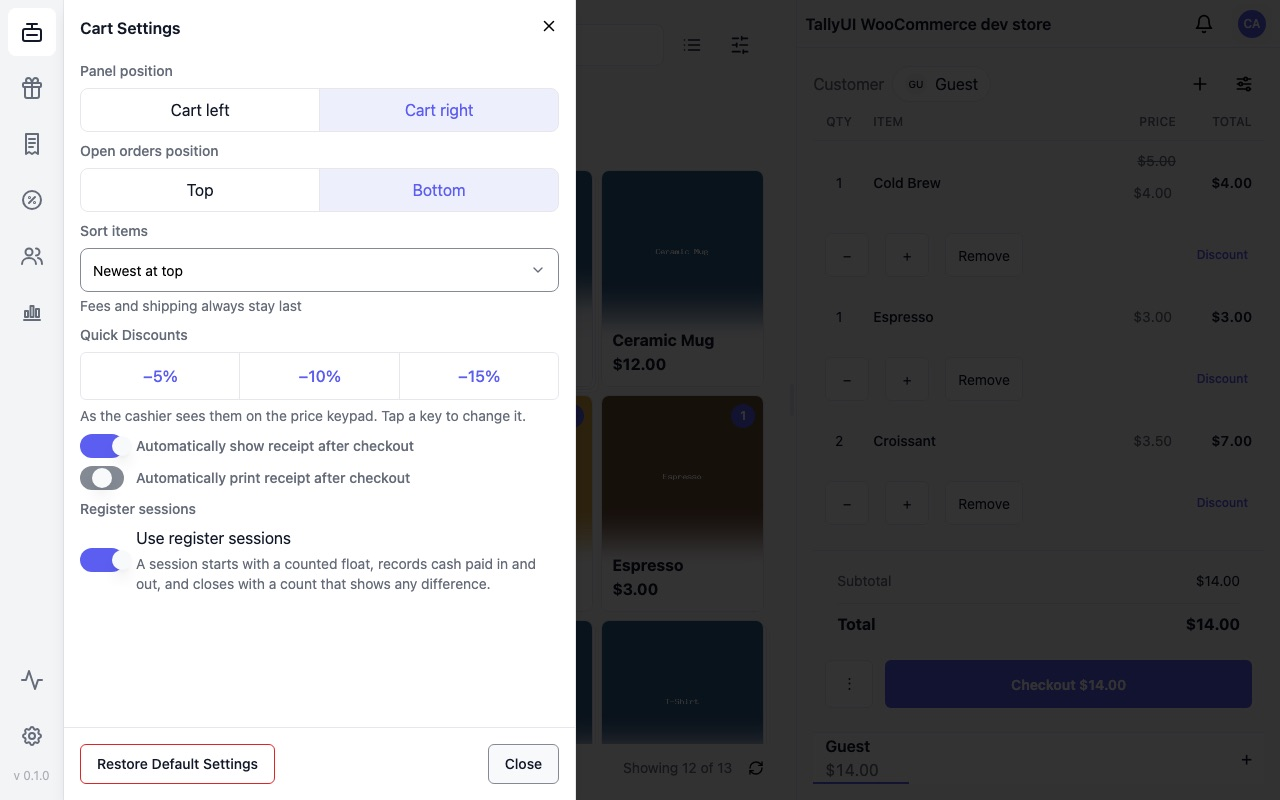
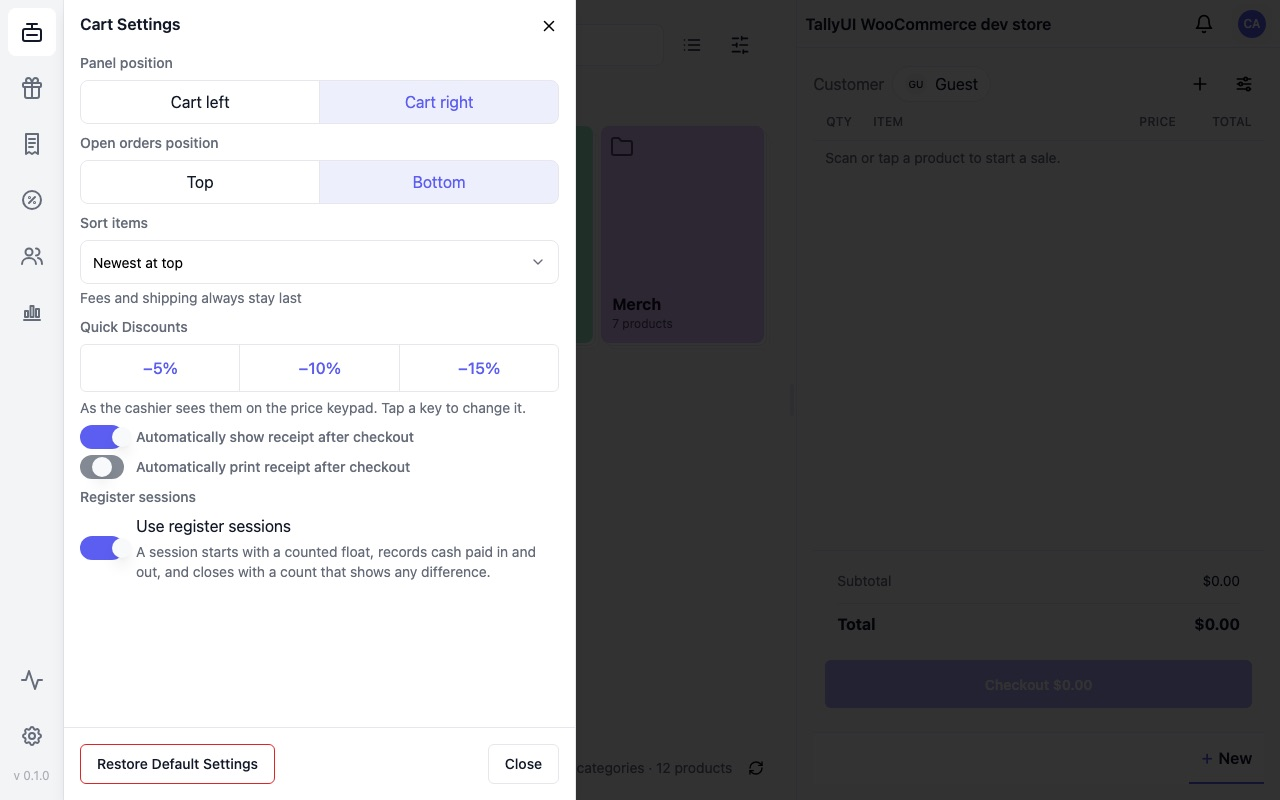
docs(parity): round 9 (settings sheets) against demo.wcpos.com/pos
Narrow round after #235: recaptured and re-scored A10, B9 and C1's
Order Settings sheet; every other row keeps round 8's text. The title,
first label, select border and Close now match the demo; the Price
switch is still cut by 2 px at the fold. D8's "Waits on" names ADR-085
U7/U8. Score unchanged: PARITY tally-woo 10/45 (match 10, close 28,
differs 0, missing 7).

Claude-Session: https://claude.ai/code/session_01Pm6LMF3tCcGrvpaD55diRU

diff --git a/docs/v2-parity/DEMO-PARITY.md b/docs/v2-parity/DEMO-PARITY.md
@@ -1,11 +1,14 @@
 # Demo parity: Tally Woo against demo.wcpos.com/pos
 
 - Date: 2026-11-11
-- Tally Woo: `main` at `ce5a542503b8ba245fc9cfcb66e2d377e401fc16` (after #233, `@tallyui/*` 3.18.0), served as a production bundle
+- Tally Woo: `main` at `a182d10bfeb5d71d48367df085470072b3b87b08` (after #235, `@tallyui/*` 3.18.0), served as a production bundle
 - Demo: WCPOS `v 2.0.0` (the version shown under the demo's rail), US Store · Front Counter
 - Viewport: 1280x800; the two phone rows are 390x844
-- Round: 8
+- Round: 9 (narrow: settings sheets). Only the rows whose pair shows a
+  settings sheet were recaptured and re-scored: A10, B9 and C1 (its
+  Order Settings image). Every other row keeps round 8's text and status
 - Score: `PARITY tally-woo 10/45 (match 10, close 28, differs 0, missing 7)`
+- Round 8: 10/45 (match 10, close 28, differs 0, missing 7)
 - Round 7: 10/45 (match 10, close 28, differs 0, missing 7)
 - Round 6: 7/45 (match 7, close 31, differs 0, missing 7)
 - Round 5: 7/45 (match 7, close 30, differs 1, missing 7)
@@ -31,7 +34,7 @@ data, and a bar that reads the store alone is v2's single-register look.
 Since #219 the till strip, the session card, the closures header and the
 prints name the register ("Register 3E32" in this round's fresh profile).
 
-Production bundle: round 8, like rounds 6 and 7, served Tally Woo from `pnpm
+Production bundle: round 9, like rounds 6 to 8, served Tally Woo from `pnpm
 build` (`expo export --platform web` into `apps/pos/dist`) behind a static
 server that applies `vercel.json`'s rewrite to `index.html`. `expo start
 --web --no-dev --minify` served a production script but linked no
@@ -63,12 +66,31 @@ repository:
 A blank cell means the gap can be built here. Where a row has parts of
 both kinds, "What differs" says which part waits.
 
-Two TallyUI gaps are not filed yet:
+These TallyUI gaps are not filed yet:
 
 - `CartTotal` always draws a bold Total row (B3, B12).
 - `TooltipTrigger` opens on press and has no hover-open option. Since #233
   the app works round it on the settings icons only (A10, C1, C5, D12,
   D13), so their tooltips open on hover and are gone once the sheet opens.
+- `Switch` has no `size="sm"`: it is 44x24 px against v2's 36x20. Since
+  #235 the settings sheets give it v2's 20 px of layout (`-my-0.5`), but
+  it still draws larger (A10, B9, C1).
+- `DialogTitle` drops `leading-none` when a size is passed. #235 sets
+  `text-base leading-none` on the sheets' titles, which measure 16 px
+  tall as v2's do, so nothing shows this round.
+- The light theme's `--color-input` is a dark grey (#848a94). #235 names
+  `border-border` on the sheets' selects; any other `border-input`
+  control still draws the dark border.
+- `text-sm` is 14 px against v2's 13 px. In the sheets this makes each
+  field label 1 px taller and its text about 7 % wider, and with the
+  larger Switch it adds up to the 7–8 px by which A10's Tile Fields sit
+  lower than the demo's (A10, B9).
+
+Round 9 measured the sheets on both images with the same ink scan
+(the demo JPEG and the Tally capture, top of each glyph run from the
+sheet's top). The demo side is round 1's Product settings and Cart
+Settings images; the areas' sheets were not opened on the demo, so the
+Order Settings sheet is held to the same chrome.
 
 Both sides are captured as they first appear.
 
@@ -85,6 +107,11 @@ Both sides are captured as they first appear.
   in a fresh browser profile after the first sync ("3 categories · 12
   products" in 17 s). The areas' settings panels were not opened on the
   demo, so the panels themselves are described, not compared.
+- Round 9 recaptured three Tally images (A10, B9, C1's Order Settings)
+  the same way, in a fresh profile after a 17 s first sync, with a
+  register session opened on a $100.00 float so the cart's settings icon
+  shows. No sale was made, so the B9 cart is empty where the demo's has
+  a line; that difference is data.
 
 ## First screen
 
@@ -99,7 +126,7 @@ Both sides are captured as they first appear.
 | A7 | Filter chips | Rounded chips always shown: In Stock (on by default, with ×), Featured, On Sale, Category, Tag, Brand; drilled into a category or a product, the Category chip leaves the row | Rounded chips in one row: In Stock (on by default, with ×), On Sale, Category, Tag; the chips are chosen in Product settings. Drilled into All products, a category or a product inside a level, the Category chip leaves the row (In Stock, On Sale, Tag stay); a product drilled from search results keeps a dimmed Category chip, as v2's `place.field` does | close | No Featured or Brand chip: the connector syncs neither ("Catalogue") | connector | [demo](demo/filter-bar-demo.jpg) · [tally](demo/filter-bar-tally.jpg) |
 | A8 | Out-of-stock products | Hidden by the default In Stock chip | Hidden by the default In Stock chip ("Showing 12 of 13") | match | | | [demo](demo/first-load-demo.jpg) · [tally](demo/first-load-tally.jpg) |
 | A9 | Table view | List rows at the category level: coloured folder icon, name, product count, chevron | List rows at the category level: coloured folder icon, name, product count, chevron; drilling in gives a product table | match | | | [demo](demo/table-view-demo.jpg) · [tally](demo/table-view-tally.jpg) |
-| A10 | Product settings | Right sheet: View Mode, Tile Size, Browse by (All products, Categories, Tags, Brands, Shortcuts), Show out-of-stock products, Sort By and Direction, Variations (Open in place / Popover), Tile Fields (Product Name, Price), Restore Default Settings with dark text in a red border, Close | The settings icon shows a "Product settings" tooltip on hover, gone once the sheet opens. Right sheet under a v2 header (title and ×): View Mode, Tile Size, Browse by (All products, Categories, Tags, Brands, Shortcuts), Show out-of-stock products, Sort By (a select with a chevron) and Direction, Variations, Tile Fields ("Product Name", Price), Restore Default Settings with dark text in a red border, Close | close | Tile Fields' second switch (Price) is cut at the fold where the demo shows both. The sheet's rows start lower (title at 28 px against 24, View Mode at 71 against 62, Tile Fields at 651 against 634; buildable here), and TallyUI's Switch is larger than v2's. The Sort By select has a dark border where the demo's is light grey, and Close is grey-filled with a dark border where the demo's is white (buildable here). The Variations Popover option is greyed out: Tally has no variations popover | shared:@tallyui/components (Switch `size="sm"`; TallyUI #719 popover) | [demo](demo/product-settings-demo.jpg) · [tally](demo/product-settings-tally.jpg) |
+| A10 | Product settings | Right sheet: View Mode, Tile Size, Browse by (All products, Categories, Tags, Brands, Shortcuts), Show out-of-stock products, Sort By and Direction, Variations (Open in place / Popover), Tile Fields (Product Name, Price), Restore Default Settings with dark text in a red border, Close | The settings icon shows a "Product settings" tooltip on hover, gone once the sheet opens. Right sheet under v2's header (a 16 px title and ×): View Mode, Tile Size, Browse by (All products, Categories, Tags, Brands, Shortcuts), Show out-of-stock products, Sort By (a select with a chevron and a light grey border) and Direction, Variations, Tile Fields ("Product Name", Price), Restore Default Settings with dark text in a red border, Close as a white outline button with a light grey border | close | The Price switch is still cut by 2 px at the list's bottom edge, where the demo shows it whole with 22 px to the footer line. The title and View Mode now sit where the demo's do (ink tops at 18 and 57 px on both), but the rows below drift lower: Tile Fields at 636 against 629, the Price switch's track at 689–710 against 682–701 (its 24 px box runs to 713, past the list's edge at 711), with the footer line at 727 against 723. The drift comes from text-sm's 14 px and the larger Switch (TallyUI). The switches are 44x24 px against the demo's 36x20 (TallyUI). The segmented labels (Grid / Table, Ascending / Descending, Open in place / Popover) and the Browse by rows are 16 px against the demo's 14 (buildable here). Restore's border is a bright red (#dc2626) where the demo's is a dark wine red, and the footer buttons are 40 px tall against 44 (buildable here). The Variations Popover option is greyed out: Tally has no variations popover. The Sort By select's light grey border and the white Close now match | shared:@tallyui/components (Switch `size="sm"`, `text-sm` 13 px; TallyUI #719 popover) | [demo](demo/product-settings-demo.jpg) · [tally](demo/product-settings-tally.jpg) |
 | A11 | Tax location and catalogue count | Foot of the catalogue: "Shop base" tax location menu at left; "6 categories · 100 products" with a sync icon at right | Foot of the catalogue: "3 categories · 12 products" with a sync icon at right; nothing at left | missing | No way to switch the tax location from the POS screen. The count and sync icon match ("Tax") | connector (TallyUI #722) | [demo](demo/first-load-demo.jpg) · [tally](demo/first-load-tally.jpg) |
 | A12 | Phone catalogue (390x844) | Top bar (menu, "US Store · Front Counter", bell, avatar), one scrolling chip row, Compact category tiles four to a row, "Shop base" and the count at the foot, bottom tab bar Products / Cart with a badge | Top bar (menu, store name, bell, avatar), one scrolling chip row, Compact category tiles four to a row with "All products" on two lines, the count with a sync icon at the foot, bottom tab bar Products / Cart with a "New" badge | close | No scan button (A6) and no "Shop base" at the foot (A11); the rest of the phone catalogue matches | shared:@tallyui/pos (TallyUI #720), connector (TallyUI #722) | [demo](demo/phone-catalogue-demo.jpg) · [tally](demo/phone-catalogue-tally.jpg) |
 
@@ -115,7 +142,7 @@ Both sides are captured as they first appear.
 | B6 | Add to the order | + icon menu: Add new customer, Add Miscellaneous Product, Add Fee, Add Discount, Add Shipping | + icon menu: Add new customer, Add charge, Add discount. Add charge opens a dialog with Fee / Shipping / Custom item and a tax class | close | Fee, shipping and the miscellaneous product are one "Add charge" entry with a kind switch, not three menu entries | shared:@tallyui/components (TallyUI #678), shared:@tallyui/pos (TallyUI #679) | [demo](demo/add-item-demo.jpg) · [tally](demo/add-item-tally.jpg) |
 | B7 | Line price and discount | Popover on the line: regular price struck through, price keypad, quick discount keys −5%, −10%, −15%, check button | Popover on the line ("Price for Cold Brew"): amount, quick discount keys −5%, −10%, −15%, keypad, Apply, Cancel | close | No struck regular price in the popover. A separate inline "Discount on …" form with Percent / Amount is still on the line ("Cart": line edit) | shared:@tallyui/components (TallyUI #677) | [demo](demo/line-edit-demo.jpg) · [tally](demo/line-edit-tally.jpg) |
 | B8 | Coupons | No coupon field in the cart; Add Discount sits in the + menu; Coupons is its own area in the rail | No coupon field in the cart. + › Add discount has Quick discount / Coupon sides, and the Coupon side lists codes with descriptions and amounts. Coupons is also its own area in the rail | close | Coupons are picked from a centred Add discount dialog with two sides. The demo's Add Discount form was not opened, so the forms themselves are not compared | shared:@tallyui/components (TallyUI #678), shared:@tallyui/pos (TallyUI #679) | [demo](demo/add-item-demo.jpg) · [tally](demo/coupon-tally.jpg) |
-| B9 | Cart settings | Left side sheet beside the rail: Panel position, Open orders position, Sort items (select), Quick Discounts (−5% / −10% / −15%), auto show and auto print receipt toggles, Columns with drag handles, Restore Default Settings, Close | Left side sheet beside the rail under a v2 header (title and ×), in plain labelled rows: Panel position, Open orders position, Sort items (a select with a chevron), Quick Discounts (−5% / −10% / −15%), auto show and auto print receipt toggles, Register sessions, Restore Default Settings, Close | close | No Columns section. The switches are larger than the demo's. An extra Register sessions row sits where the demo's Columns start ("Cart"). As in A10, the rows start lower (Panel position at 71 px against 62), the Sort items select has a dark border and Close is grey-filled (buildable here) | shared:@tallyui/components (TallyUI #695, Switch `size="sm"`) | [demo](demo/cart-settings-demo.jpg) · [tally](demo/cart-settings-tally.jpg) |
+| B9 | Cart settings | Left side sheet beside the rail: Panel position, Open orders position, Sort items (select), Quick Discounts (−5% / −10% / −15%), auto show and auto print receipt toggles, Columns with drag handles, Restore Default Settings, Close | Left side sheet beside the rail under v2's header (a 16 px title and ×), in plain labelled rows: Panel position, Open orders position, Sort items (a select with a chevron and a light grey border), Quick Discounts (−5% / −10% / −15%), auto show and auto print receipt toggles, Register sessions, Restore Default Settings, Close as a white outline button with a light grey border | close | No Columns section. An extra Register sessions row sits where the demo's Columns start ("Cart"), drawn in its own style (a 16 px "Use register sessions" in the foreground colour over a two-line help text) rather than as the sheet's other switch rows (buildable here). The switches are 44x24 px against the demo's 36x20 (TallyUI). The segmented labels (Cart left / Cart right, Top / Bottom) and the quick discount keys are 16 px against the demo's 14 (buildable here). The title and Panel position now sit where the demo's do (ink tops at 18 and 57 px on both), but the rows below drift lower, to 11 px by the receipt switches, from text-sm's 14 px (TallyUI). Restore's border is a bright red where the demo's is a dark wine red, and the footer buttons are 40 px tall against 44 (buildable here). The Sort items select's light grey border and the white Close now match | shared:@tallyui/components (TallyUI #695, Switch `size="sm"`, `text-sm` 13 px) | [demo](demo/cart-settings-demo.jpg) · [tally](demo/cart-settings-tally.jpg) |
 | B10 | Order details (⋮) | Left sheet with Form / JSON tabs: Customer Note, Hand over (Status, Cashier, Store, Register, Send), Tax exempt, Hidden fields, + Currency, + Custom field; Void, Close, Print, Sync order | The ⋮ opens a one-item menu: Void | missing | No customer note, tax exempt or hand over ("Order note and meta") | connector (TallyUI #689, awaiting release) | [demo](demo/order-details-demo.jpg) · [tally](demo/order-details-tally.jpg) |
 | B11 | Variations | "Aether Gym Pant" drills in place: the parent tile (photo, name, price, "12 options", back chevron), then one tile per variation with its name, attribute chips ("32", "Blue") and price; the filter chips grey out; "12 options" at the foot | "T-Shirt" (6 options) drills in place: "Categories › All products › T-Shirt", the parent tile (image, name, price, "6 options", back chevron), then one tile per variation with its name, attribute chips ("S", "Black") and price; the Category chip leaves the row and On Sale and Tag dim, as in the demo, and hovering a dimmed one shows v2's tooltip ("A product filter; not used inside a product's variations."); "6 options" with a sync icon at the foot | match | A dev build still rejects the variable products when they sync (TallyUI #713, merged as #724, awaiting release) | | [demo](demo/variations-demo.jpg) · [tally](demo/variations-tally.jpg) |
 | B12 | Phone cart (390x844) | Top bar; full-screen cart table, "Checkout $16.83"; one-line open-order tabs ("Guest $16.83") with a "3 ^" count, the open tab in view at the right; bottom tab bar | Top bar (menu, store, bell, avatar); full-screen cart table, Subtotal and a bold Total, ⋮ and "Checkout $4.00"; with three open orders, one-line tabs ("…50", "Guest $3.00", "Guest $4.00") behind a "3 ^" count cell, the strip scrolled so the open tab sits whole at the right with + after it, as in the demo; a blank cart scrolls the strip to its end; nothing under the tabs; bottom tab bar Products / Cart with a badge | close | Each line carries a row of −, +, Remove, Discount and Price controls, which take most of the height. The bold Total row (B3). Choosing another tab moves it to the end of the strip; the demo's tabs were not switched, so this is not compared | shared:@tallyui/components (TallyUI #677; `CartTotal`, not filed) | [demo](demo/phone-cart-demo.jpg) · [tally](demo/phone-cart-tally.jpg) |
@@ -124,7 +151,7 @@ Both sides are captured as they first appear.
 
 | # | Screen or flow step | Demo | Tally Woo | Status | What differs | Waits on | Pair |
 |---|---|---|---|---|---|---|---|
-| C1 | Orders list | Table: Status dot, Order number, Customer, Billing address, Date created, POS icon, Cashier, Payment method, Total; "TODAY" group heading; narrow search with a settings, bell and avatar cluster; "Showing 20 of 29,754" with a sync icon | Table on a bordered card: Status dot, Order number, Customer chip, Date created, Payment method, Total, chevron; TODAY / YESTERDAY / dated group headings; narrow search with a sliders icon, bell and avatar at right; the sliders show an "Order Settings" tooltip on hover and open "Order Settings", a right sheet of column switches with Restore Default Settings (dark text, red border) and Close; "Showing 25" with a sync icon under the card | close | No Billing address, POS icon or Cashier column, and no "of N" total ("Order history") | connector (columns; X-WP-Total, TallyUI #680) | [demo](demo/orders-demo.jpg) · [tally](demo/orders-tally.jpg) · [tally settings](demo/orders-settings-tally.jpg) |
+| C1 | Orders list | Table: Status dot, Order number, Customer, Billing address, Date created, POS icon, Cashier, Payment method, Total; "TODAY" group heading; narrow search with a settings, bell and avatar cluster; "Showing 20 of 29,754" with a sync icon | Table on a bordered card: Status dot, Order number, Customer chip, Date created, Payment method, Total, chevron; TODAY / YESTERDAY / dated group headings; narrow search with a sliders icon, bell and avatar at right; the sliders show an "Order Settings" tooltip on hover and open "Order Settings", a right sheet under v2's header (a 16 px title and ×) with a Columns heading, six column switches, Restore Default Settings (dark text, red border) and Close as a white outline button; "Showing 25" with a sync icon under the card | close | No Billing address, POS icon or Cashier column, and no "of N" total ("Order history"). The demo's Order Settings sheet was not opened; held to the demo's Product settings, the sheet's title row and Close match, its switches are larger (TallyUI), and Restore's border is a bright red and the footer buttons 40 px tall, as in A10 (buildable here) | connector (columns; X-WP-Total, TallyUI #680), shared:@tallyui/components (Switch `size="sm"`) | [demo](demo/orders-demo.jpg) · [tally](demo/orders-tally.jpg) · [tally settings](demo/orders-settings-tally.jpg) |
 | C2 | Order filters | Rounded chips: Status, Payment Method, Select Customer, cashier, store, Select register, Date range | None | missing | The list can be narrowed only by search ("Order history": filters) | connector (TallyUI #721) | [demo](demo/orders-demo.jpg) · [tally](demo/orders-tally.jpg) |
 | C3 | Order search | "Search Orders" box over the table | "Search Orders" box over the table; "372" leaves one row, "Showing 1" | match | | | [demo](demo/orders-search-demo.jpg) · [tally](demo/orders-search-tally.jpg) |
 | C4 | Order detail | Right sheet with View / Edit / JSON tabs: items with a barcode chip, tax breakdown, Payment section; Delete, Close, Re-open | Right sheet "Order #372": status, date, items with a SKU chip, Totals, Payment, Customer; Close, Receipt | close | No View / Edit / JSON tabs, and no Re-open or Delete ("Order history": detail, reopen, edit, delete). The tax breakdown was not seen (no tax) | connector | [demo](demo/order-detail-demo.jpg) · [tally](demo/order-detail-tally.jpg) |
@@ -144,7 +171,7 @@ Both sides are captured as they first appear.
 | D5 | Settings: Theme | Ten themes: System, Light, Dark, Ocean, Sunset, Monochrome, Paper till, Warm shop, Bold money, Market stall | The same ten themes | match | | | [demo](demo/settings-theme-demo.jpg) · [tally](demo/settings-theme-tally.jpg) |
 | D6 | Settings: Printing | Printers (empty, Add printer); Receipt templates (Standard, Detailed Thermal 80mm, Detailed, Gift, Packing Slip, Kitchen Ticket), each with "Auto — Print Dialog" | Not present | missing | ("Printing") | connector (TallyUI #681) | [demo](demo/settings-printing-demo.jpg) |
 | D7 | Settings: Card readers | Reader list with "Use this reader" | Not present | missing | ("Card readers and terminals") | shared:@tallyui/pos (TallyUI #679) | [demo](demo/settings-card-readers-demo.jpg) |
-| D8 | Settings: Customer Display | Generate pairing code, Copy URL, Open in browser | Not present | missing | ("Customer display") | connector, pro (TallyUI #684) | [demo](demo/settings-customer-display-demo.jpg) |
+| D8 | Settings: Customer Display | Generate pairing code, Copy URL, Open in browser | Not present | missing | ("Customer display") | connector, pro (TallyUI #684). ADR-085: U7, the fork routes, is TallyUI/woocommerce-pos#1, waiting for the desk; U8, the app wiring, comes after the TallyUI batch release; the Woo connector's `displaySignalling` belongs to the tallyui worker | [demo](demo/settings-customer-display-demo.jpg) |
 | D9 | Store health: Database | Sub-nav Database / Performance / Logs; "Ready to sell", records on this device, storage used, changes waiting to send; "8 records need attention" banner with Fix record, Retry, View log; table Collection / On device / On server / Coverage bar / Size with ⋮ per row | Sub-nav Database / Logs; "✓ Ready to sell", records on this device, storage used, changes waiting to send; table Collection / On device; "Check for changes now" | close | No Performance entry in the sub-nav (D10). No On server, Coverage or Size columns. The dev store had no stuck records, so the attention banner was not seen ("Store health") | connector | [demo](demo/health-database-demo.jpg) · [tally](demo/health-database-tally.jpg) |
 | D10 | Store health: Performance | Hourly request strip with "Reset to Balanced" | Not present | missing | ("Store health": Performance) | shared:@tallyui/database (TallyUI #683) | [demo](demo/health-performance-demo.jpg) |
 | D11 | Logs | Under Store health: events today, errors today, stuck records, changes waiting to send; Copy debug info; Search Logs; rounded All / Actions / Errors / Sync chips; verbose diagnostics toggle; Time / Level / Event / Duration / Status rows with a chevron; "Showing 46 of 46" and a "next check" line at the foot | Under Store health: events today, errors today, stuck records, changes waiting to send; Copy debug info; Search Logs; rounded All / Actions / Errors / Sync chips; "Verbose diagnostics: off"; Time / Level / Event / Duration / Status rows with a chevron ("Order accepted by the store", "Register session opened"); "Showing 2 of 2" | close | No "next check" line at the foot. Sync runs write no row; the demo logs them ("Loaded the records this screen needs") | shared:@tallyui/database (TallyUI #683) | [demo](demo/logs-demo.jpg) · [tally](demo/logs-tally.jpg) |
@@ -190,12 +217,17 @@ moves to the end of the strip.
 
 The gaps that can be built here, in the order a cashier would notice them.
 
-1. **Settings sheet spacing** (A10, B9). Set the side sheets' header and
-   row spacing to v2's (title at 24 px, first label at 62 px), so Product
-   settings shows both Tile Fields switches above the fold as the demo
-   does.
-2. **Select border in the settings sheets** (A10, B9). Give the Sort By
-   and Sort items selects v2's light grey border (`SELECT_FACE` takes the
-   border tone) instead of the dark one.
-3. **Close in the settings sheets** (A10, B9). Draw Close as v2's white
-   outline button with a light border instead of the grey-filled face.
+1. **Price switch cut at the fold** (A10). Give the sheets' `FieldLabel`
+   v2's 13 px (`text-[13px]`, until TallyUI's `text-sm` moves) so the
+   five labels above Tile Fields stop adding a pixel each and the Price
+   switch shows whole. Do it before item 4, whose 44 px footer takes
+   4 px back off the list.
+2. **16 px text in the sheets' controls** (A10, B9). Set the `Segmented`
+   and `SegmentedRow` labels, the Browse by rows and the quick discount
+   keys to `text-sm` instead of `text-base`, as v2's are.
+3. **Register sessions row in Cart Settings** (B9). Draw it as the
+   sheet's other rows (a `SwitchRow` with the muted label, its help as
+   one `text-sm` muted line) instead of `RegisterSwitch`'s 16 px label.
+4. **Restore's red and the footer height** (A10, B9, the areas' sheets).
+   Give `RestoreDefaultsButton` v2's dark wine destructive border instead
+   of `#dc2626`, and both footer buttons v2's 44 px (`h-11`).
